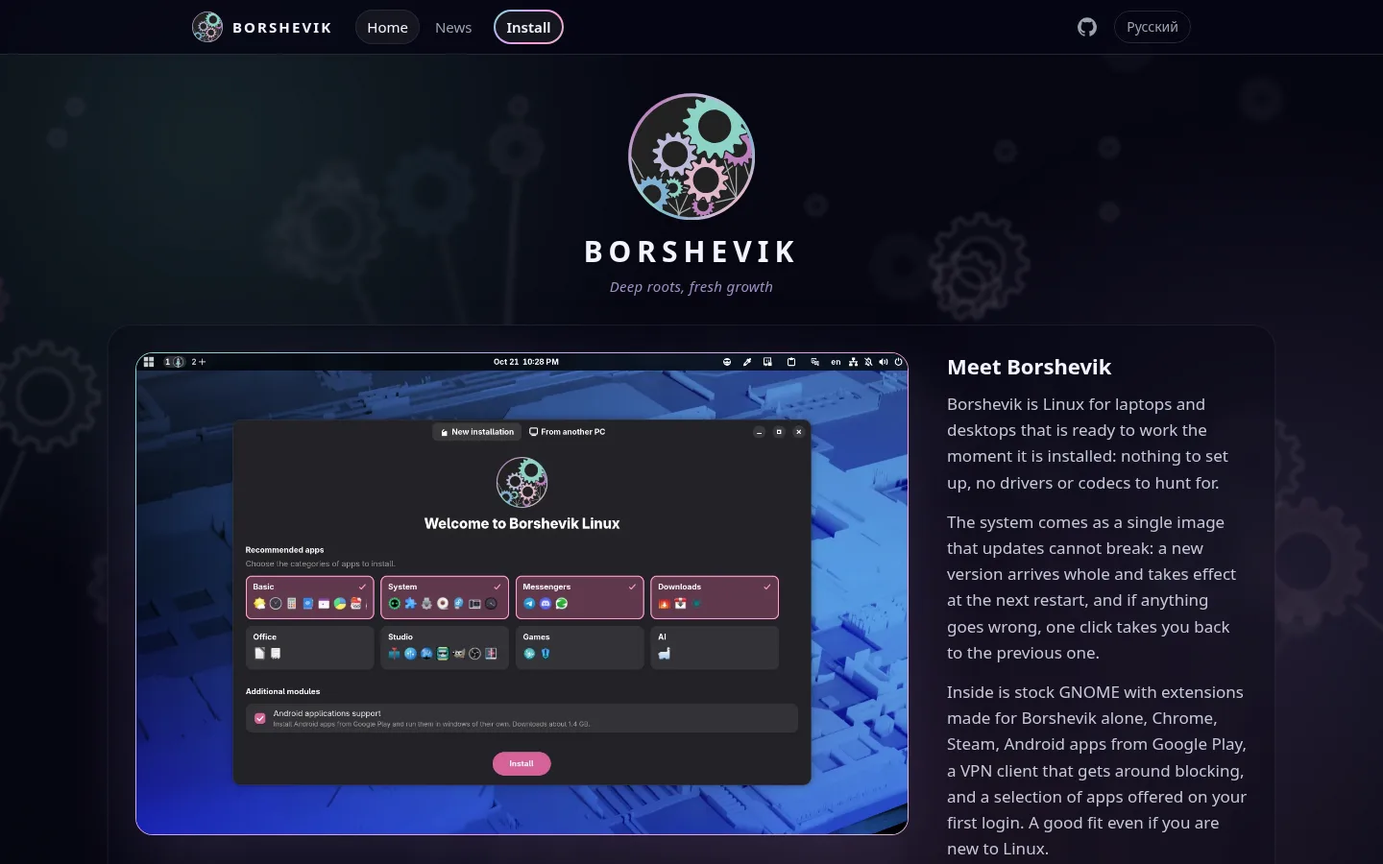
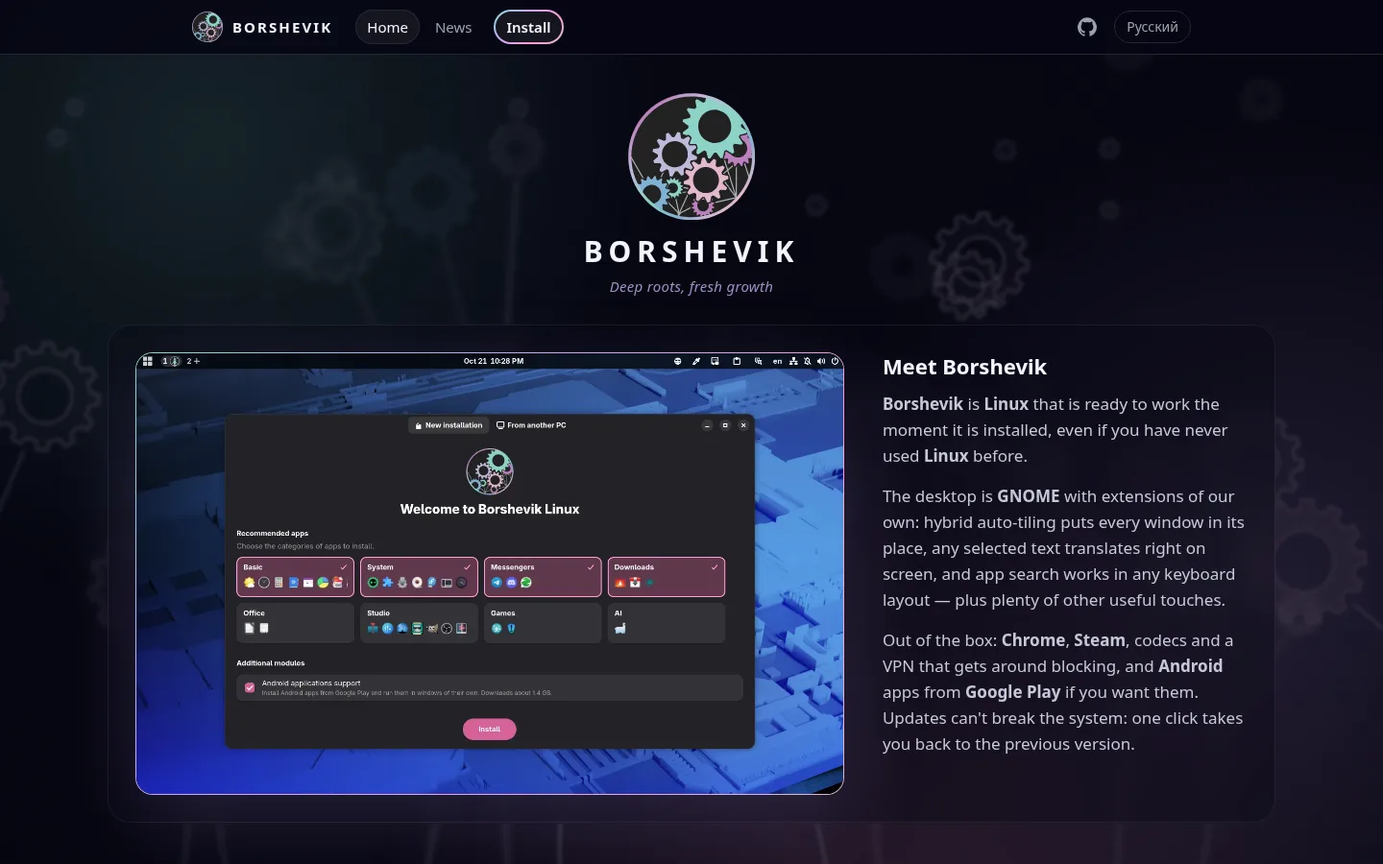
Rework the posts' Russian, a way back on the rebase page, and copy buttons
- The translate, Android and new-site posts reworded where the Russian read as a
  translation; Android needs no restart after registering, the APK installer offers
  to update an installed app, metered connections explained in plain words; the
  new-site post ends with a pointer to the Telegram channel and has a fresh screenshot.
- Rebase page: a third step to go back — Fedora by its own ostree remote with GPG,
  as its ISO installs it, or a uBlue image signed (NVIDIA variants included) — and
  what stays behind: kernel arguments and Android's data. Tried end to end in a
  machine from a fresh Silverblue 44.
- The install page loses its closing line.
- A copy button on every code block.

Changed region(s): [[0.0938, 0.4044, 0.9062, 0.9956], [0.0938, 0.4044, 0.1562, 0.4356], [0.4688, 0.7467, 0.5, 0.7778]]

diff --git a/style.css b/style.css
@@ -606,6 +606,55 @@ a {
     color: var(--text);
 }
 
+/* the copy button in a code block's top right corner, the text kept clear of it */
+.prose pre:has(.copy-button) {
+    position: relative;
+    padding-right: 52px;
+}
+
+.copy-button {
+    position: absolute;
+    top: 8px;
+    right: 8px;
+    width: 32px;
+    height: 32px;
+    display: grid;
+    place-items: center;
+    padding: 0;
+    border: 1px solid var(--surface-line);
+    border-radius: 8px;
+    background: var(--surface);
+    color: var(--muted);
+    cursor: pointer;
+}
+
+.copy-button:hover {
+    color: var(--text);
+}
+
+.copy-button svg {
+    width: 16px;
+    height: 16px;
+    fill: none;
+    stroke: currentColor;
+    stroke-width: 1.4;
+    stroke-linecap: round;
+    stroke-linejoin: round;
+}
+
+.copy-button .icon-done,
+.copy-button.done .icon-copy {
+    display: none;
+}
+
+.copy-button.done .icon-done {
+    display: block;
+}
+
+.copy-button.done {
+    color: var(--accent);
+}
+
 .prose hr {
     border: 0;
     height: 1px;

diff --git a/templates/layout.php b/templates/layout.php
@@ -116,6 +116,40 @@
         });
     </script>
 <?php endif; ?>
+<?php if (str_contains($body, '<pre>')): ?>
+
+    <script>
+        // A command's copy button: the block's text to the clipboard, and a check mark for two
+        // seconds to say it was taken.
+        const copied = document.documentElement.lang === 'ru'
+            ? { copy: 'Скопировать', done: 'Скопировано' }
+            : { copy: 'Copy', done: 'Copied' };
+        document.querySelectorAll('.prose pre').forEach(pre => {
+            const button = document.createElement('button');
+            button.type = 'button';
+            button.className = 'copy-button';
+            button.setAttribute('aria-label', copied.copy);
+            button.title = copied.copy;
+            button.innerHTML = '<svg class="icon-copy" viewBox="0 0 16 16" aria-hidden="true"><rect x="5.5" y="5.5" width="8" height="8" rx="1.5"/><path d="M10.5 3.5v-.5a1.5 1.5 0 0 0-1.5-1.5h-5a1.5 1.5 0 0 0-1.5 1.5v5a1.5 1.5 0 0 0 1.5 1.5h.5"/></svg>'
+                + '<svg class="icon-done" viewBox="0 0 16 16" aria-hidden="true"><path d="M3 8.5l3.2 3.2L13 4.8"/></svg>';
+            pre.append(button);
+            let timer;
+            button.addEventListener('click', () => {
+                navigator.clipboard.writeText(pre.querySelector('code').textContent).then(() => {
+                    button.classList.add('done');
+                    button.setAttribute('aria-label', copied.done);
+                    button.title = copied.done;
+                    clearTimeout(timer);
+                    timer = setTimeout(() => {
+                        button.classList.remove('done');
+                        button.setAttribute('aria-label', copied.copy);
+                        button.title = copied.copy;
+                    }, 2000);
+                }).catch(() => {});
+            });
+        });
+    </script>
+<?php endif; ?>
 
 </body>
 

diff --git a/content/ru/rebase.md b/content/ru/rebase.md
@@ -1,8 +1,8 @@
 # Переход с Fedora Atomic или uBlue
 
-Уже стоит **Fedora Silverblue**, **Kinoite** или другая **Fedora Atomic**, либо образ **uBlue** — **Bluefin**, **Aurora**, **Bazzite**? Тогда переустанавливать ничего не нужно: систему можно перевести на **Borshevik** двумя командами. Ваши файлы и настройки в домашней папке останутся на месте.
+У вас уже стоит **Fedora Silverblue**, **Kinoite** или другая **Fedora Atomic** — или образ **uBlue**, например **Bluefin**, **Aurora** или **Bazzite**? Тогда переустанавливать систему не нужно: перейти на **Borshevik** можно двумя командами. Файлы и настройки в домашней папке останутся на месте.
 
-Переход идёт в два шага, потому что ваша система ещё не знает ключа, которым подписан **Borshevik**: он приходит вместе с самим образом. Поэтому сначала переходим на образ без проверки подписи, а уже из **Borshevik** — на подписанный, и с этого момента каждое обновление проверяется.
+Шагов два, потому что ваша система пока не знает ключа, которым подписан **Borshevik**, — он приходит вместе с самим образом. Поэтому сначала вы переходите на образ без проверки подписи, а уже из **Borshevik** — на подписанный.
 
 ## 1. Перейдите на образ Borshevik
 
@@ -22,7 +22,7 @@ sudo rpm-ostree rebase ostree-unverified-registry:ghcr.io/komorebinator/borshevi
 systemctl reboot
 ```
 
-При первом запуске **Borshevik** компьютер может один раз перезагрузиться сам, чтобы применить настройки, а на образе **NVIDIA** с включённым **Secure Boot** попросит подтвердить ключ драйвера — так же, как [при новой установке](/install).
+При первом запуске **Borshevik** компьютер может один раз перезагрузиться сам, чтобы применить настройки, а на образе **NVIDIA** с включённым **Secure Boot** попросит подтвердить ключ драйвера — так же, как [при новой установке](/install). При первом входе откроется **App Manager** с подборкой приложений.
 
 ## 2. Перейдите на подписанный образ
 
@@ -44,4 +44,36 @@ sudo rpm-ostree rebase ostree-image-signed:docker://ghcr.io/komorebinator/borshe
 systemctl reboot
 ```
 
-Готово. При следующем входе откроется **App Manager** с подборкой приложений, а обновления и откат — в **Image Manager**. Прежняя система остаётся в меню загрузки, пока её не вытеснят обновления: если что-то не понравится, можно вернуться командой `rpm-ostree rollback`.
+Готово: обновления и откат — в **Image Manager**.
+
+## 3. Если Borshevik не подошёл
+
+Вернуться можно той же командой `rpm-ostree rebase`.
+
+На **Fedora Silverblue** — в том виде, в каком она ставится с ISO, с проверкой подписи каждого обновления. Сначала добавьте репозиторий **Fedora**, затем перейдите на него:
+
+```
+sudo ostree remote add --set=gpgkeypath=/etc/pki/rpm-gpg/RPM-GPG-KEY-fedora-44-primary --set=contenturl=mirrorlist=https://ostree.fedoraproject.org/mirrorlist fedora https://ostree.fedoraproject.org
+```
+
+```
+sudo rpm-ostree rebase fedora:fedora/44/x86_64/silverblue
+```
+
+Для **Kinoite** — `kinoite` вместо `silverblue`. 44 — номер версии **Fedora**: если вышла новее, подставьте её в обе команды.
+
+На образ **uBlue**, например **Bluefin**:
+
+```
+sudo rpm-ostree rebase ostree-image-signed:docker://ghcr.io/ublue-os/bluefin:stable
+```
+
+Для **Aurora** и **Bazzite** — `aurora` или `bazzite` вместо `bluefin`, а для видеокарт **NVIDIA** — с `-nvidia-open` в конце, например `bluefin-nvidia-open`. Были на другом варианте, например `bazzite-gnome`, — подставьте его имя. Затем перезагрузитесь:
+
+```
+systemctl reboot
+```
+
+Файлы и настройки в домашней папке останутся на месте: **Borshevik** меняет только настройки по умолчанию, а ваши не трогает. Могут остаться параметры ядра, которые выставил **Borshevik** (`preempt=full`, а на образе **NVIDIA** ещё `nvidia-drm.modeset=1`, `modprobe.blacklist=nouveau`, `modprobe.blacklist=nova_core` и `rd.driver.blacklist=nova_core`).
+
+Переход с **Borshevik** не удаляет **Android**: его приложения и данные остаются на диске, но запустить их можно только в системе, где установлен **Waydroid**.

diff --git a/posts/2026-10-15-android/ru.md b/posts/2026-10-15-android/ru.md
@@ -1,36 +1,36 @@
 # Android-приложения в Borshevik
 
-**Borshevik** теперь запускает **Android**-приложения — в отдельных окнах, рядом с обычными программами. Приложения ставятся из **Google Play** и обновляются сами, а уведомления, вход через **Google** и всё, что зависит от сервисов **Google**, работает.
+Теперь в **Borshevik** можно запускать **Android**-приложения — каждое в своём окне, рядом с обычными программами. Работают сервисы **Google** и **Google Play**: приложения устанавливаются оттуда и сами обновляются.
 
 ## Как включить
 
-**Android** не входит в систему по умолчанию и ставится по желанию:
+**Android** не ставится вместе с системой — его можно добавить, когда понадобится:
 
-- галочкой **Поддержка Android-приложений** в **App Manager**;
-- или кнопкой **Установить Android** на вкладке **Android** в **Image Manager**.
+- отметьте **Поддержка Android-приложений** в **App Manager**;
+- или нажмите **Установить Android** на вкладке **Android** в **Image Manager**.
 
-Скачается около 1,4 ГБ: **Android** с **Google Play** и сервисами **Google**. Большинство приложений в **Google Play** собраны только под **ARM**-процессоры телефонов, поэтому ставится и транслятор с **ARM**, подобранный под ваш процессор: на **Intel** — собственный от **Intel**, на **AMD** — от **Google**. На видеокартах **NVIDIA** **Android** рисует программно и работает медленнее.
+Загрузка — около 1,4 ГБ: сам **Android**, **Google Play** и сервисы **Google**. Большинство приложений в **Google Play** собраны только для **ARM**-процессоров, как в телефонах, поэтому заодно ставится транслятор **ARM**-кода, подобранный под ваш процессор: на **Intel** — от самой **Intel**, на **AMD** — от **Google**. Если видеокарта — **NVIDIA**, **Android** рисует картинку без её помощи и работает медленнее.
 
 ![Вкладка Android в Image Manager перед установкой](install-android.ru.webp)
 
 ## Регистрация в Google Play
 
-**Google** один раз просит зарегистрировать устройство на ваш аккаунт. Вкладка **Android** покажет идентификатор устройства и откроет страницу регистрации: вставьте туда ID, перезапустите **Android** и войдите в **Google Play**.
+**Google** один раз попросит привязать устройство к вашему аккаунту. На вкладке **Android** показан идентификатор устройства и есть кнопка, открывающая страницу регистрации: скопируйте его туда и войдите в **Google Play**.
 
 ![Регистрация в Google Play на вкладке Android](android-tab.ru.webp)
 
 ## Установка APK
 
-APK-файл, скачанный не из **Google Play**, ставится двойным щелчком: установщик покажет пакет и версию и спросит, установить его или обновить.
+APK, скачанный не из **Google Play**, ставится двойным кликом. Установщик покажет название пакета с версией и предложит установить приложение — или обновить, если оно уже установлено.
 
 ![Установщик APK спрашивает, установить ли F-Droid в Android](apk-install.ru.webp)
 
 ## Выглядит как часть системы
 
-**Android** подхватывает тёмную тему и акцентный цвет **GNOME**:
+**Android** следует за темой и акцентным цветом **GNOME**:
 
 ![Android меняет тему вслед за GNOME](android-theme.ru.mp4)
 
 ## Обновления
 
-**Android** обновляется отдельно от системы, раз в день и никогда — через лимитное подключение, а откат **Borshevik** возвращает и прежнюю версию **Android**.
+**Android** обновляется отдельно от системы, раз в день. Если интернет раздаётся с телефона или трафик ограничен, обновление подождёт.

diff --git a/posts/2026-10-12-translate/ru.md b/posts/2026-10-12-translate/ru.md
@@ -1,19 +1,19 @@
 # Перевод выделенного текста
 
-В **Borshevik** появился переводчик: выделите текст в любом приложении и нажмите **Super+T** или значок переводчика на панели — перевод откроется прямо под ним. Ничего не нужно копировать, открывать браузер или отдельную программу.
+В **Borshevik** появился переводчик: выделите текст в любом приложении и нажмите **Super+T** или значок на панели — результат появится прямо под ним. Не нужно ничего копировать, открывать браузер или отдельную программу.
 
 ![Перевод английского абзаца на русский, открытый под значком на панели](translate-open.ru.webp)
 
 ## Как это работает
 
-Наверху панели — вкладка для каждого вашего языка. Текст переводится на язык вкладки, выбранной последней, а текст, который уже на этом языке, — на следующий. Перевод можно скопировать кнопкой рядом. Панель закрывается кликом в любом другом месте или клавишей **Esc**.
+Вверху окна с переводом — вкладки с вашими языками. Текст переводится на язык последней выбранной вкладки, а если он уже на этом языке — на следующий по списку. Рядом с результатом — кнопка копирования.
 
 ![Выделяем абзац английского PDF, нажимаем Super+T — под значком на панели появляется перевод на русский](translate.ru.mp4)
 
 ## Языки
 
-По умолчанию это языки ваших раскладок клавиатуры, английский — последним: с русской и английской раскладками русский текст переводится на английский, а английский — на русский. В настройках языки можно добавить, убрать и поднять наверх.
+Языки берутся из ваших раскладок клавиатуры, английский ставится последним. Например, с русской и английской раскладками русский текст переводится на английский, а английский — на русский. В настройках список можно изменить: добавить язык, убрать или поднять выше.
+
+Переводится только выделенный текст, буфер обмена остаётся нетронутым. Переводит **Google Translate**.
 
 ![Настройки переводчика: русский и английский, взятые из раскладок, и добавление языка](translate-settings.ru.webp)
-
-Переводится только выделенный текст, буфер обмена не трогается. Перевод идёт через **Google Translate**, поэтому выделенный текст отправляется в **Google**.

diff --git a/content/en/rebase.md b/content/en/rebase.md
@@ -2,7 +2,7 @@
 
 Already running **Fedora Silverblue**, **Kinoite** or another **Fedora Atomic** desktop, or a **uBlue** image such as **Bluefin**, **Aurora** or **Bazzite**? Then there is nothing to reinstall: two commands switch the system to **Borshevik**. Your files and settings in your home folder stay where they are.
 
-It takes two steps because your system does not yet know the key **Borshevik** is signed with: the key comes with the image itself. So you first switch to the image without checking its signature, and then, from **Borshevik**, to the signed one — from then on every update is checked.
+It takes two steps because your system does not yet know the key **Borshevik** is signed with: the key comes with the image itself. So you first switch to the image without checking its signature, and then, from **Borshevik**, to the signed one.
 
 ## 1. Switch to the Borshevik image
 
@@ -22,7 +22,7 @@ When it finishes, restart:
 systemctl reboot
 ```
 
-On **Borshevik**'s first start the computer may restart once by itself to apply its settings, and the **NVIDIA** image with **Secure Boot** on asks you to confirm the driver's key — just as [on a fresh installation](/install).
+On **Borshevik**'s first start the computer may restart once by itself to apply its settings, and the **NVIDIA** image with **Secure Boot** on asks you to confirm the driver's key — just as [on a fresh installation](/install). On your first login the **App Manager** opens with its selection of apps.
 
 ## 2. Switch to the signed image
 
@@ -44,4 +44,36 @@ And restart again:
 systemctl reboot
 ```
 
-That's it. On your next login the **App Manager** opens with its selection of apps, and updates and rollback are in the **Image Manager**. Your previous system stays in the boot menu until updates push it out: if something is not to your liking, `rpm-ostree rollback` takes you back.
+That's it: updates and rollback are in the **Image Manager**.
+
+## 3. If Borshevik is not for you
+
+You can go back with the same `rpm-ostree rebase`.
+
+To **Fedora Silverblue** — as it is after installing from the ISO, with every update's signature checked. First add **Fedora**'s repository, then switch to it:
+
+```
+sudo ostree remote add --set=gpgkeypath=/etc/pki/rpm-gpg/RPM-GPG-KEY-fedora-44-primary --set=contenturl=mirrorlist=https://ostree.fedoraproject.org/mirrorlist fedora https://ostree.fedoraproject.org
+```
+
+```
+sudo rpm-ostree rebase fedora:fedora/44/x86_64/silverblue
+```
+
+For **Kinoite**, `kinoite` instead of `silverblue`. 44 is the **Fedora** version: if a newer one is out, put it in both commands.
+
+To a **uBlue** image, such as **Bluefin**:
+
+```
+sudo rpm-ostree rebase ostree-image-signed:docker://ghcr.io/ublue-os/bluefin:stable
+```
+
+For **Aurora** or **Bazzite**, `aurora` or `bazzite` instead of `bluefin`, and for **NVIDIA** graphics, with `-nvidia-open` at the end, such as `bluefin-nvidia-open`. Were you on another variant, such as `bazzite-gnome`? Put its name in. Then restart:
+
+```
+systemctl reboot
+```
+
+Your files and settings in your home folder stay where they are: **Borshevik** changes only the defaults and leaves your own settings alone. The kernel arguments **Borshevik** set may stay (`preempt=full`, and on the **NVIDIA** image also `nvidia-drm.modeset=1`, `modprobe.blacklist=nouveau`, `modprobe.blacklist=nova_core` and `rd.driver.blacklist=nova_core`).
+
+Leaving **Borshevik** does not remove **Android**: its apps and data stay on the disk, but they only run on a system with **Waydroid** installed.

diff --git a/posts/2026-10-27-new-site/ru.md b/posts/2026-10-27-new-site/ru.md
@@ -6,11 +6,11 @@
 
 ## Что умеет система
 
-На главной — всё, что есть в **Borshevik** сразу после установки: обновления, которые не ломают систему и откатываются в один шаг, **Android**-приложения, игры, VPN и доработки **GNOME** — рабочие столы на панели, расстановка окон, перевод выделенного текста, поиск приложений в любой раскладке. У большинства разделов есть короткое видео, как это работает.
+На главной собрано всё, что умеет **Borshevik**: обновления, которые не сломают систему, **Android**-приложения, игры, VPN и наши доработки **GNOME** — от рабочих столов на панели до перевода выделенного текста. Почти к каждому разделу есть короткое видео.
 
 ## Установка по шагам
 
-Страница установки ведёт от скачивания образа до первого входа: какой образ выбрать — стандартный или для **NVIDIA**, как записать флешку в **Fedora Media Writer**, загрузиться с неё и пройти установщик. Запись флешки, установщик и подтверждение ключа драйвера **NVIDIA** показаны на видео: их можно остановить и перемотать к нужному шагу.
+На странице установки — весь путь от скачивания образа до первого входа: какой образ выбрать — стандартный или для **NVIDIA**, как записать флешку в **Fedora Media Writer**, загрузиться с неё и установить систему. Запись флешки, установка и подтверждение ключа драйвера **NVIDIA** показаны на видео, которые можно остановить и перемотать к нужному шагу.
 
 ## Новости
 
@@ -20,3 +20,5 @@
 
 
 ------------ вы здесь ------------
+
+Дальше — больше хороших новостей. Подписывайтесь на наш [Telegram-канал](https://t.me/borsheviklinux), чтобы их не пропустить.

diff --git a/content/ru/home.md b/content/ru/home.md
@@ -50,7 +50,7 @@
 
 ::exclusive
 
-Рабочие столы превращаются во вкладки на верхней панели. На каждой вкладке — иконки её окон, так что сразу видно, где что открыто, а переключаться можно щелчком или клавишами **Super+1**, **Super+2** и так далее. Вкладки можно перетаскивать, как в браузере, — окна переезжают вместе со своим столом. Рабочие столы появляются и исчезают сами: в конце всегда есть пустой — вкладка **+**, которая открывает его в режиме обзора, чтобы запустить там что-нибудь, — а если перетащить **+** между двумя вкладками, новый стол появится прямо там. Закройте последнее окно на столе — он исчезнет, а вы вернётесь на стол слева.
+Рабочие столы превращаются во вкладки на верхней панели. На каждой вкладке — иконки её окон, так что сразу видно, где что открыто, а переключаться можно мышкой или клавишами **Super+1**, **Super+2** и так далее. Вкладки можно перетаскивать, как в браузере, — окна переезжают вместе со своим столом. Рабочие столы появляются и исчезают сами: в конце всегда есть пустой — вкладка **+**, которая открывает его в режиме обзора, чтобы запустить там что-нибудь, — а если перетащить **+** между двумя вкладками, новый стол появится прямо там. Закройте последнее окно на столе — он исчезнет, а вы вернётесь на стол слева.
 
 ## Каждому окну — своё место
 

diff --git a/posts/2026-10-15-android/en.md b/posts/2026-10-15-android/en.md
@@ -1,6 +1,6 @@
 # Android apps on Borshevik
 
-**Borshevik** now runs **Android** apps — in windows of their own, next to your desktop apps. Apps install from **Google Play** and keep themselves up to date, and notifications, **Google** sign-in and everything else that relies on **Google**'s services work.
+**Borshevik** now runs **Android** apps — in windows of their own, next to your desktop apps. **Google**'s services and **Google Play** work: apps install from there and keep themselves up to date.
 
 ## How to turn it on
 
@@ -15,13 +15,13 @@ It downloads about 1.4 GB: **Android** with **Google Play** and **Google**'s ser
 
 ## Registering with Google Play
 
-**Google** asks for the device to be registered with your account once. The **Android** tab shows the device ID and opens the registration page: paste the ID there, restart **Android** and sign in to **Google Play**.
+**Google** asks for the device to be registered with your account once. The **Android** tab shows the device ID and has a button that opens the registration page: paste the ID there and sign in to **Google Play**.
 
 ![Google Play registration on the Android tab](android-tab.en.webp)
 
 ## Installing APKs
 
-An APK downloaded from somewhere other than **Google Play** installs with a double click: the installer shows the package and its version and asks whether to install or update it.
+An APK downloaded from somewhere other than **Google Play** installs with a double click: the installer shows the package and its version and offers to install it — or to update it, if it is already installed.
 
 ![The APK installer asking whether to install F-Droid into Android](apk-install.en.webp)
 
@@ -33,4 +33,4 @@ An APK downloaded from somewhere other than **Google Play** installs with a doub
 
 ## Updates
 
-**Android** updates separately from the system, once a day and never over a metered connection, and rolling **Borshevik** back brings back the earlier **Android** too.
+**Android** updates separately from the system, once a day, and waits while you're on a phone's hotspot or another metered connection.

diff --git a/posts/2026-10-12-translate/en.md b/posts/2026-10-12-translate/en.md
@@ -6,7 +6,7 @@
 
 ## How it works
 
-The panel has a tab for each of your languages at the top. Text is translated into the language of the tab you chose last, and text already in that language into the next one. A button next to the translation copies it. A click anywhere else or **Esc** closes the panel.
+The translation's popup has a tab for each of your languages at the top. Text is translated into the language of the tab you chose last, and text already in that language into the next one. A button next to the translation copies it.
 
 ![Selecting a paragraph of a Russian PDF and pressing Super+T opens its English translation under the panel icon](translate.en.mp4)
 
@@ -14,6 +14,6 @@ The panel has a tab for each of your languages at the top. Text is translated in
 
 By default they are the languages of your keyboard layouts, English last: with Russian and English layouts, Russian text is translated into English and English into Russian. In the settings, languages can be added, removed and moved to the top.
 
-![The translator's settings: Russian and English, taken from the keyboard layouts, and adding a language](translate-settings.en.webp)
+Only the selected text is translated; the clipboard is left alone. Translation goes through **Google Translate**.
 
-Only the selected text is translated; the clipboard is left alone. Translation goes through **Google Translate**, so the selected text is sent to **Google**.
+![The translator's settings: Russian and English, taken from the keyboard layouts, and adding a language](translate-settings.en.webp)

diff --git a/posts/2026-10-27-new-site/en.md b/posts/2026-10-27-new-site/en.md
@@ -6,7 +6,7 @@
 
 ## What the system can do
 
-The home page covers everything **Borshevik** comes with: updates that never break the system and roll back in one step, **Android** apps, games, VPN, and the work done on **GNOME** — workspaces on the panel, window placement, translation of selected text, app search in any keyboard layout. Most sections come with a short video of how it works.
+The home page covers everything **Borshevik** can do: updates that never break the system, **Android** apps, games, VPN and our work on **GNOME** — from workspaces on the panel to translating selected text. Most sections come with a short video.
 
 ## Installation step by step
 
@@ -20,3 +20,5 @@ The site opens in your browser's language — English or Russian — and the swi
 
 
 ------------ you are here ------------
+
+More good news is on the way — stay tuned.

diff --git a/content/ru/install.md b/content/ru/install.md
@@ -54,5 +54,3 @@
 Переезжаете с другого компьютера — откройте вкладку **С другого компьютера** и вставьте скопированную там конфигурацию: установятся те же приложения.
 
 ![Вкладка «С другого компьютера» в App Manager](ru/app-manager-other-pc.webp)
-
-Готово. Дальше обновлять систему, включать автообновления и откатываться — в **Image Manager**.
